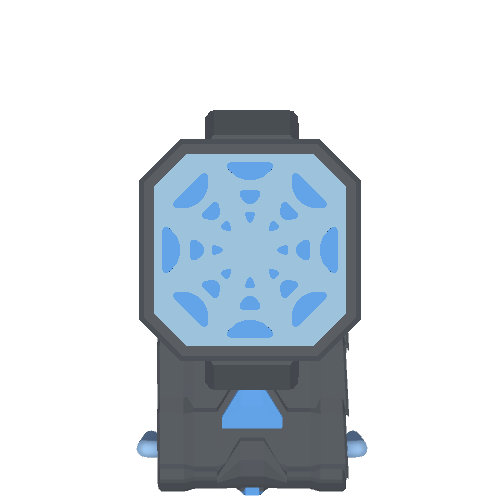
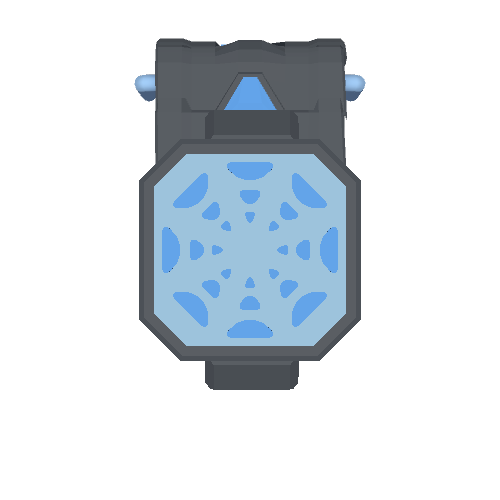
Tidy mod images, and CConveyPushRotatable Target is Kitchen.Orientation

Changed region(s): [[0.27, 0.66, 0.75, 1.0], [0.27, 0.06, 0.75, 0.33]]

diff --git a/src-mod/PlateUpTool_Integration/PUT_Exporter.cs b/src-mod/PlateUpTool_Integration/PUT_Exporter.cs
@@ -687,7 +687,7 @@ namespace PlateUpTool_Integration
                         {
                             PlateUpTool_Integration.TDbg("CConveyPushRotatable so some form of corner grabber");
                             var rotateComponent = base.EntityManager.GetComponentData<CConveyPushRotatable>(primaryOccupant);
-                            PlateUpTool_Integration.TDbg("Rotation: " + (int) rotateComponent.Target);
+                            PlateUpTool_Integration.TDbg("Target Rotation: " + (int) rotateComponent.Target);
                             forceExtraData = (int) rotateComponent.Target;
                         }
 
